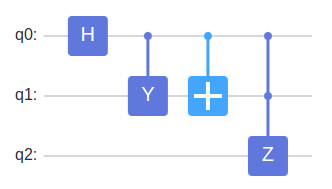
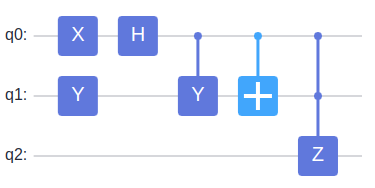
fix 2.4

diff --git a/whitepaper/tex/2.4_Quantum_Circuit.tex b/whitepaper/tex/2.4_Quantum_Circuit.tex
@@ -1,151 +1,105 @@
+View demo code of this section: \democode{02}{2.4}
+
+The quantum circuit is a graphical representation of the sequence of quantum gates applied to qubits in a quantum computation or quantum algorithm. Similar to classical digital circuits made up of logic gates that manipulate classical bits, quantum circuits are composed of quantum gates that manipulate quantum bits or qubits.
+
+\subsubsection{Construct a quantum circuit}
+In \MindQuantum we use \Circuit to represent quantum circuit:
+
 \begin{lstlisting}
-实现：就是量子门集合
-
-添加量子门的方法：
-1. +=
-2. circuit.x
-3. list
-
-展示线路的方法：svg
-
-介绍常用接口：
-1. n_qubits（包含多少比特）
-2. params_name（有哪些变量）
-3. has_measure_gate（是否含有测量）
-4. matrix()（获取线路矩阵）
-5. get_qs()（获取量子态）
-6. summary()
-
-高阶操作：
-1. 线路压缩
-2. 更改比特顺序
-3. 更改变量名
-\end{lstlisting}
-
-The quantum circuit can accomplish some useful tasks, it can change the states of the qubits. The quantum circuit is to be read from left-to-right. Each line in the circuit represents a \textit{wire} in the quantum circuit. This wire does not necessarily correspond to a physical wire; it may correspond instead to the passage of time, or perhaps to a physical particle.
-
-There are a few features allowed in classical circuits that are not usually present in quantum circuits. First of all, we do not allow 'loops', that is, feedback from one part of the quantum circuit to another. second, classical circuits allow wires to be 'joined' together. Third, the inverse operation is also not allowed in quantum circuits.
-
-The quantum circuit has some important operations. First, it allows us to use control qubit to operator on the target qubit, if the control qubit is set 1 then the gate will be applied to the targer qubits. Another important operation is measurement, which we represent by a 'meter' symbol.
-
-\subsection{Quantum gate set}
-Quantum gates (quantum logic gates) are the basic logical units of quantum circuit. Basic quantum gates commonly used are X gate, Y gate, Z gate, Hadamard gate (H gate), CNOT gate, and revolving gate RX gate, RY gate, and RZ gate. \\
-
-\textbf{1. X, Y, Z gate}
-
-X, Y, Z gate are Pauli matrices, they are single qubit gates and operator on single qubit, can rotate $\pi$ angles around the X, Y and Z axis of the Bloch sphere.   \\
-
-\textbf{2. Hadamard(H) gate}
-
-matrix representation: $H = \frac{1}{\sqrt{2}} \left( \begin{array}{cc}
-            1 & 1  \\
-            1 & -1
-        \end{array} \right)$
-
-H gate is also single qubit gate, but it can change the ground state to a superposition state. \\
-
-\textbf{3. CNOT gate}
-
-matrix representation: $CNOT = \left( \begin{array}{cccc}
-            1 & 0 & 0 & 0 \\
-            0 & 1 & 0 & 0 \\
-            0 & 0 & 0 & 1 \\
-            0 & 0 & 1 & 0
-        \end{array} \right)$
-
-CNOT gate is a two-qubit gate, it can operator controll qubit and target qubit. \\
-
-\textbf{4. RX, RY, RZ gate}
-
-RX, RY, RZ can rotate the quantum state $\theta$ angles around the X, Y and Z axes on a Bloch sphere. RX, RY can bring about a change in probability amplitude, and RZ only a change in phase.
-\subsection{Add quantum gate}
-Mindquantum has libraries associated with quantum gates, which can be used to operate on quantum gates.
-\begin{lstlisting}
-from mindquantum.core.gates import X, Y, Z, H, RX, RY, RZ
 from mindquantum.core.circuit import Circuit
-encoder = Circuit()
+circ = Circuit()
 \end{lstlisting}
 
-There are several basic operations for adding a quantum gate.
+There are several basic operations for adding a quantum gate into \Circuit
 \begin{itemize}
     \item +=: use '+=' to add a quantum gate to the circuit.
     \item Circuit.x: add an X gate to the circuit.
-    \item list: Circuit allows multiple bits to be operated on simultaneously, passing data of the same type as a list.
+    \item list: directly construct a quantum gate with gate list
 \end{itemize}
 \begin{lstlisting}
-encoder += H.on(0)
-encoder += Y.on(1, 0)
-encoder.x(1, 0)
-encoder.z(2, [0, 1])
+from mindquantum.core.gates import H, Y, X, Z
+circ = Circuit([X.on(0), Y.on(1)])
+circ += H.on(0)
+circ += Y.on(1, 0)
+circ.x(1, 0)
+circ.z(2, [0, 1])
 \end{lstlisting}
-\subsection{SVG}
-SVG(Scalable Vector Graphics) is based on the XML markup language and is used to describe vector graphics in two dimensions. Mindquantum provides a function to save the picture in SVG format.
+
+\subsubsection{Display a quantum circuit}
+SVG(Scalable Vector Graphics) is based on the XML markup language and is used to describe vector graphics in two dimensions. \MindQuantum provides a function to export quantum circuit to SVG format.
 \begin{lstlisting}
-encoder.svg().to_file(filename='circuit.svg')
+circ.svg().to_file(filename='circuit.svg')
 \end{lstlisting}
 \begin{figure}[h]
     \begin{center}
-        \includegraphics[width=0.5\linewidth]{images/2_4_circuit.png}
+        \includegraphics[width=0.9\linewidth]{images/2_4_circuit.png}
     \end{center}
-    \caption{quantum circuit}
+    \caption{Quantum Circuit.}
 \end{figure}
-\subsection{API}
-Mindquantum provides several common API for quantum circuit.
-\begin{itemize}
-    \item n\_qubits: get the number of qubit of quantum circuit.
-    \item params\_name: get the params of circuit.
-    \item has\_measure\_gate: get whether to be measured.
-    \item matrix(): get the circuit matrix.
-    \item get\_qs(): get the final quantum state.
-    \item summary(): get information about the current circuit, including the number of blocks、 gates、 gates without parameters、 gates with parameters and parameters.
-\end{itemize}
-\begin{lstlisting}
-encoder.n_qubits
-encoder.params_name
-encoder.has_measure_gate
-encoder.matrix() 
-encoder.get_qs()
-encoder.summary()
-\end{lstlisting}
-Output:
-\begin{lstlisting}
-3
-[]
-False
-[[ 0.70710678+0.j          0.        +0.70710678j  0.        +0.j
-   0.        +0.j          0.        +0.j          0.        +0.j
-   0.        +0.j         -0.        +0.j        ]
- ......
- [ 0.        +0.j          0.        +0.j          0.        +0.j
-   0.        +0.j          0.        +0.j          0.        +0.j
-   0.70710678+0.j         -0.        -0.70710678j]]
-   
-[ 0.70710678+0.j          0.        +0.70710678j  0.        +0.j
-  0.        +0.j          0.        +0.j          0.        +0.j
-  0.        +0.j         -0.        +0.j        ]
-  
-=======Circuit Summary=======
-|Total number of gates  : 4.|
-|Parameter gates        : 0.|
-|with 0 parameters are  :   |
-|                        .  |
-|Number qubit of circuit: 3 |
-=============================  
-\end{lstlisting}
-\subsection{Advanced operator}
-Mindquantum also provides several Advanced API for quantum circuit.
-\begin{itemize}
-    \item compress(): delete all unused qubits and map the qubits to range(n\_qubits).
-    \item SwapParts(a: Iterable, b: Iterable, maps\_ctrl=None): swapping a and b of a quantum circuit and can add control bits maps\_ctrl.
-    \item change\_param\_name(circuit\_fn, name\_map): change parameter names in parametric quantum circuits or parametric quantum operators.
-\end{itemize}
-\begin{lstlisting}
-encoder.compress()
+Please note that if you are in jupyter notebook environment, you can directly get svg image by \code{circ.svg()}.
 
-from mindquantum.core.circuit import SwapParts
-SwapParts([0, [1, 2], 0) 
 
-from mindquantum.core.circuit import change_param_name
-encoder.rx('a')
-encoder1 = change_param_name(encoder, {'a': 'b'})  
+\subsubsection{Common interfaces}
+
+Quantum Circuit is the basic element of quantum algorithm, \MindQuantum provide a lot of useful method for \Circuit.
+
+\begin{itemize}
+    \item \propnqubits: get the number of qubit of quantum circuit.
+    \item \propparamsname: get the params of circuit.
+    \item \prophasmeasuregate: get whether to be measured.
+    \item \methodmatrix: get the circuit matrix.
+    \item \methodgetqs: get the final quantum state.
+    \item \methodsummary: get information about the current circuit, including the number of blocks, gates, gates without parameters, gates with parameters and parameters.
+\end{itemize}
+
+\subsubsection{Advanced operator on circuit}
+
+Constructing a large size quantum circuit is always not a straightforward thing for user. Here in \MindQuantum, we can use some pre-defined method to manipulate your \Circuit very easily. For example the origin quantum circuit is:
+
+\begin{lstlisting}
+from mindquantum.core.circuit import *
+
+circ = Circuit().h(0).rx('a', 2, 0)
 \end{lstlisting}
+
+\begin{figure}[H]
+    \begin{center}
+        \includegraphics[width=0.6\linewidth]{images/2_4_ori_circ.png}
+    \end{center}
+    \caption{Quantum Circuit need to manipulate.}
+\end{figure}
+We now show how to manipulate on this quantum circuit:
+
+
+\begin{enumerate}
+    \item \methodcompress{circ} : compress all qubit to first $n$ qubits.\par
+          \begin{minipage}{\linewidth}
+              \centering
+              \includegraphics[width=0.6\linewidth]{images/2_4_compress_circ.png}
+          \end{minipage}
+    \item \methodcontrol{circ}{1} : add control qubits on this circuit\par
+          \begin{minipage}{\linewidth}
+              \centering
+              \includegraphics[width=0.6\linewidth]{images/2_4_ctrl_circ.png}
+          \end{minipage}
+    \item \methoddagger{circ} : get hermitian conjugate version\par
+          \begin{minipage}{\linewidth}
+              \centering
+              \includegraphics[width=0.6\linewidth]{images/2_4_dagger_circ.png}
+          \end{minipage}
+    \item \methodapply{circ}{[2, 1]} : apply circuit to other qubits\par
+          \begin{minipage}{\linewidth}
+              \centering
+              \includegraphics[width=0.6\linewidth]{images/2_4_apply_circ.png}
+          \end{minipage}
+    \item \methodreverse{circ} : reverse the qubit order in circuit\par
+          \begin{minipage}{\linewidth}
+              \centering
+              \includegraphics[width=0.6\linewidth]{images/2_4_reverse_circ.png}
+          \end{minipage}
+    \item \methodshift{circ}{2} : shift the qubit range with given step\par
+          \begin{minipage}{\linewidth}
+              \centering
+              \includegraphics[width=0.6\linewidth]{images/2_4_shift_circ.png}
+          \end{minipage}
+\end{enumerate}

diff --git a/whitepaper/tex/2.3_Quantum_Gate.tex b/whitepaper/tex/2.3_Quantum_Gate.tex
@@ -154,7 +154,7 @@ Please notice that in the above demo, \code{rx1} is actually a non-parameterized
 \subsubsection{Custom Quantum Gate}
 Since it is difficult to construct arbitrary quantum gates by using general gates in practical applications, two methods for constructing custom quantum gates are provided in \MindQuantum. They are quantum gates without parameters and quantum gates with parameters.
 
-Universal Math Gate
+\textbf{1. Universal Math Gate}
 
 If the matrix representation of a gate is known, it is convenient to construct the gate in \MindQuantum. Two parameters are required to initialize \UnivMathGate, which are the gate name and the matrix value. If the matrix is not unitary, the result cannot be normalized.
 Example:
@@ -171,7 +171,7 @@ Output:
 custom_X(0 <-: 1)
 \end{lstlisting}
 
-Universal Parameterized Gate
+\textbf{2. Universal Parameterized Gate}
 
 Sometimes we need to construct a parameterized gate in which the parameter is self-defined. In \MindQuantum, we can easily construct a customized parameterized gate by \geneunivparameterizedgate, and its usage is basically as same as that of \RX gate. Two parameters are required to initialize such a gate. One is a function or method to use only one parameter (similar to theta in \RX) to generate a unitary matrix, noting that no error is reported if the resulting matrix is not unitary. The other is the function or method that produces the derivative of this matrix, which is used to calculate the gradient. This method supports the generation of arbitrary qubit operators and can accelerate the performance by numba.JIT.
 

diff --git a/whitepaper/tex/main.tex b/whitepaper/tex/main.tex
@@ -109,8 +109,8 @@ Introduction of MindSpore Quantum.
 \subsection{Quantum Gate}
 \input{2.3_Quantum_Gate}
 
-% \subsection{Quantum Circuit}
-% \input{2.4_Quantum_Circuit}
+\subsection{Quantum Circuit}
+\input{2.4_Quantum_Circuit}
 
 % \subsection{Quantum Operator}
 % \input{2.5_Quantum_Operator}
